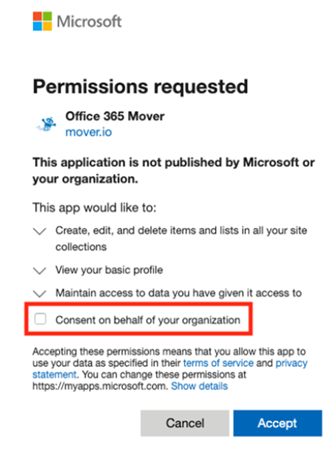
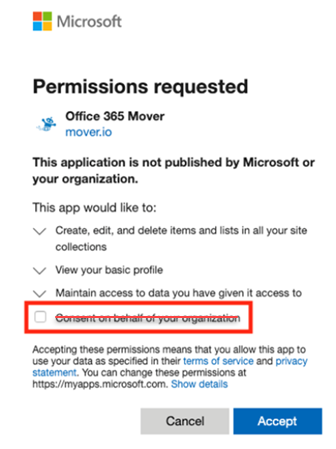
edits
edits regarding perms.

diff --git a/migration/mover-setup-m365-destination.md b/migration/mover-setup-m365-destination.md
@@ -47,9 +47,13 @@ Some steps in the authorization process can be completed by a global or SharePoi
     >[!Warning]
     >If you are a **global admin**, a slightly different login screen appears.  
     >
-    >If you select *Consent on behalf of your organization* during the authentication flow, you will grant admin access to your entire organization. DO NOT do this. To tighten your security beyond administrators, turn on "User assignment required" from the "Office 365 Mover" app settings in your Azure portal. You will need to specifically assign your migrator users who may use the app.
+    >If you select *Consent on behalf of your organization* during the authentication flow, you will grant admin access to your entire organization. **DO NOT do this**. 
 
     ![global admin o365](media/permissions-o365-global-admin.png)</br>
+
+
+To tighten your security beyond administrators, turn on **User assignment required** from the *Office 365 Mover* app settings in your Azure portal. You need to specifically assign your migrator users who may use the app.
+
 
     ![user assignment required](media/mover-user-assignment-setting.png)
 
